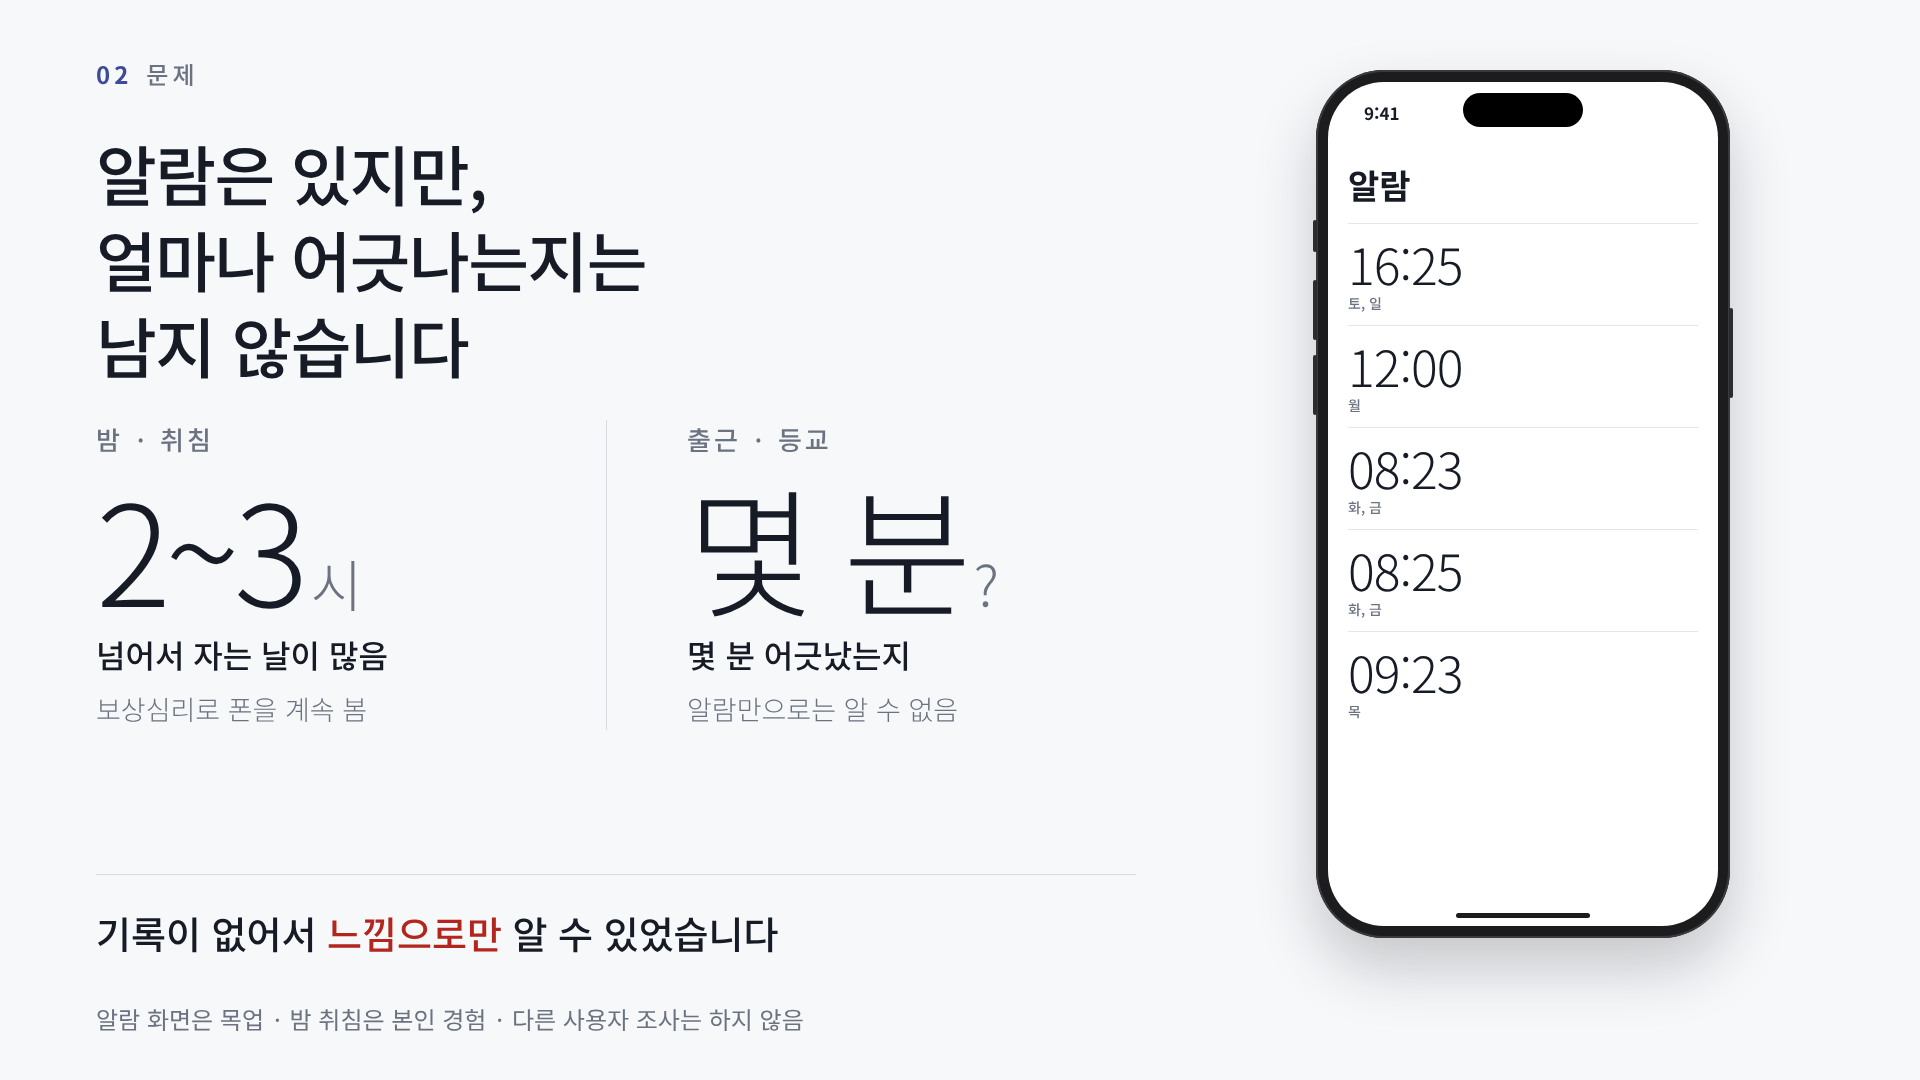
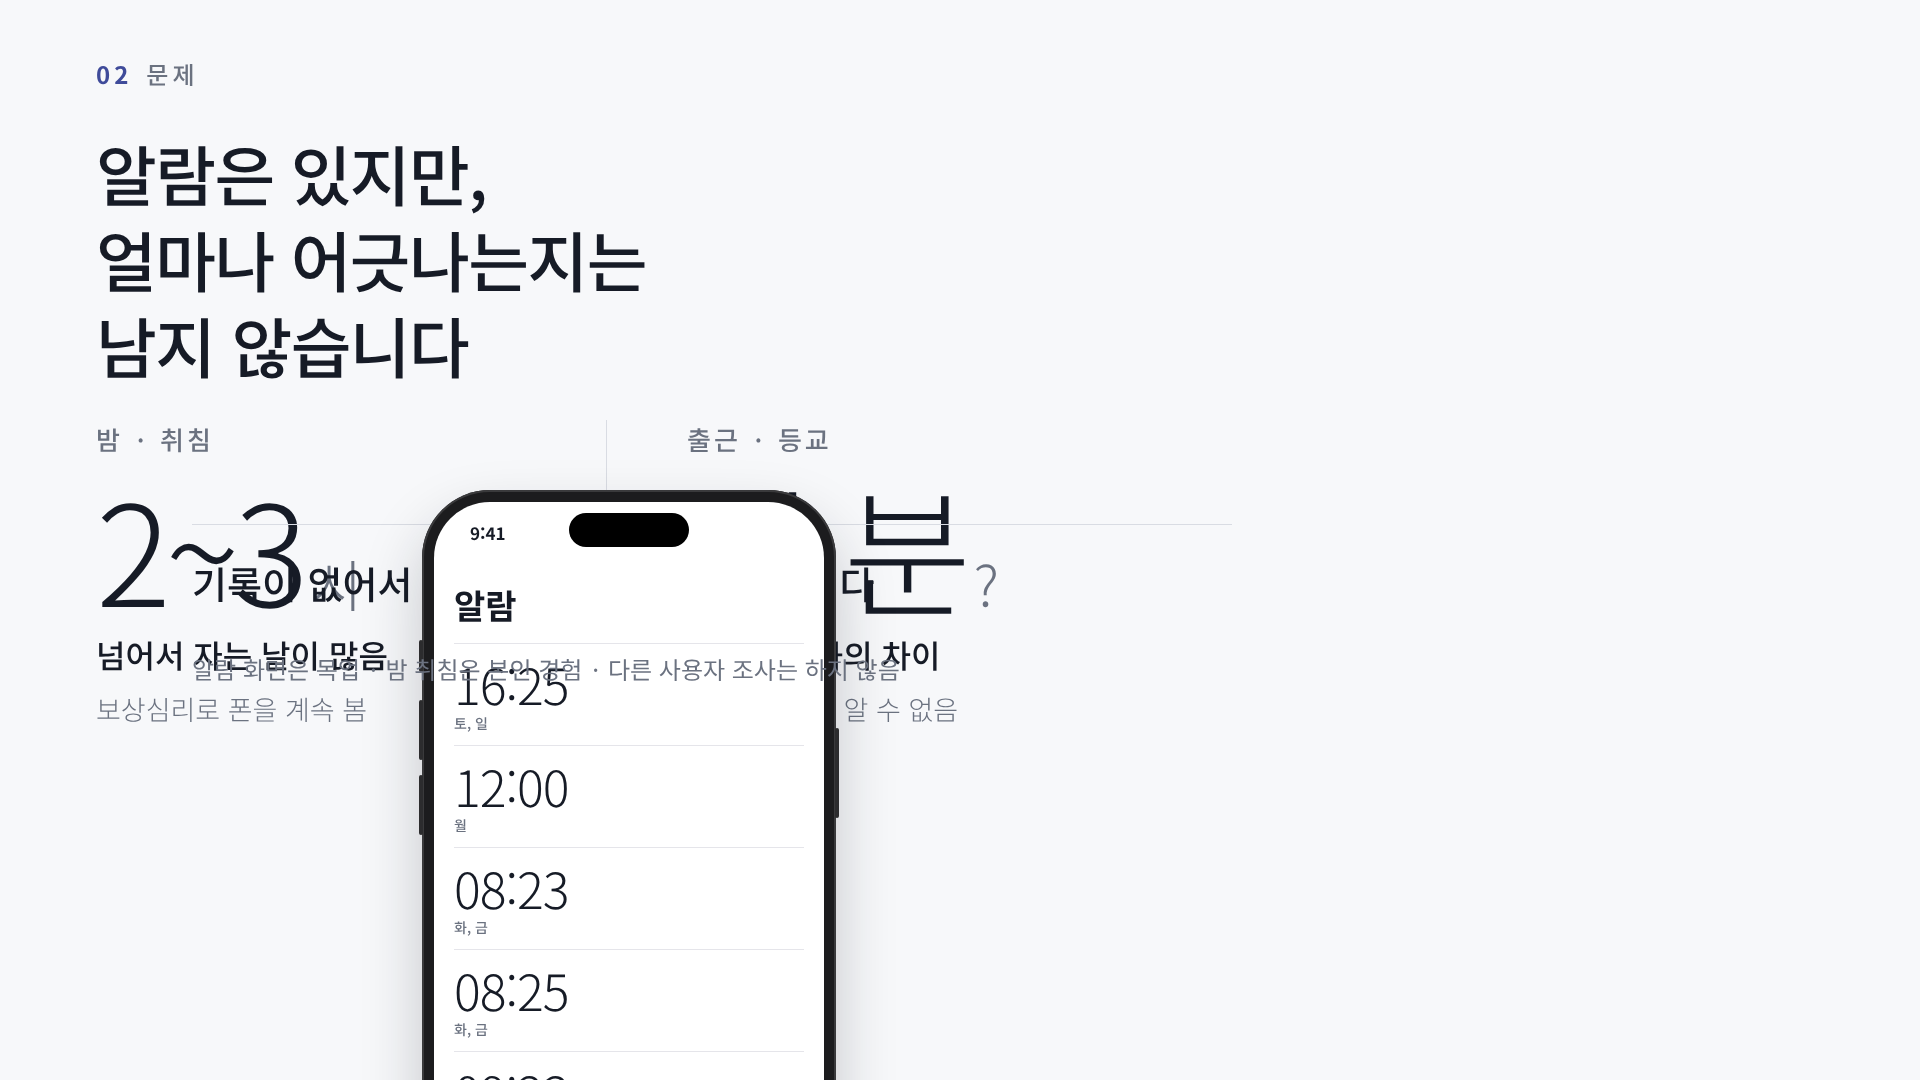
docs: 장표 2 중복 문구 정리
Claude-Session: https://claude.ai/code/session_01P1GBHLbgts9XqSkhaJYGHU

Changed region(s): [[0.0625, 0.4278, 0.5, 1.0], [0.6562, 0.0611, 0.9062, 0.9167], [0.0625, 0.9167, 0.125, 0.9472]]

diff --git a/promise_time/docs/presentation/slide2.html b/promise_time/docs/presentation/slide2.html
@@ -15,7 +15,7 @@ h1{position:absolute;left:96px;top:130px;font-size:66px}
 <h1>알람은 있지만,<br>얼마나 어긋나는지는<br>남지 않습니다</h1>
 <div class=cols>
 <div class=c><div class=k>밤 · 취침</div><div class=n>2~3<small>시</small></div><div class=d>넘어서 자는 날이 많음</div><div class=e>보상심리로 폰을 계속 봄</div></div>
-<div class=c><div class=k>출근 · 등교</div><div class=n>몇 분<small>?</small></div><div class=d>몇 분 어긋났는지</div><div class=e>알람만으로는 알 수 없음</div></div></div>
+<div class=c><div class=k>출근 · 등교</div><div class=n>몇 분<small>?</small></div><div class=d>정한 시각과의 차이<div class=e>알람만으로는 알 수 없음</div></div></div>
 <div class=conc>기록이 없어서 <em>느낌으로만</em> 알 수 있었습니다</div>
 <div id=p></div><script>document.getElementById('p').innerHTML=frame(alarmScreen(),1.0);</script>
 <div class=foot>알람 화면은 목업 · 밤 취침은 본인 경험 · 다른 사용자 조사는 하지 않음</div>
